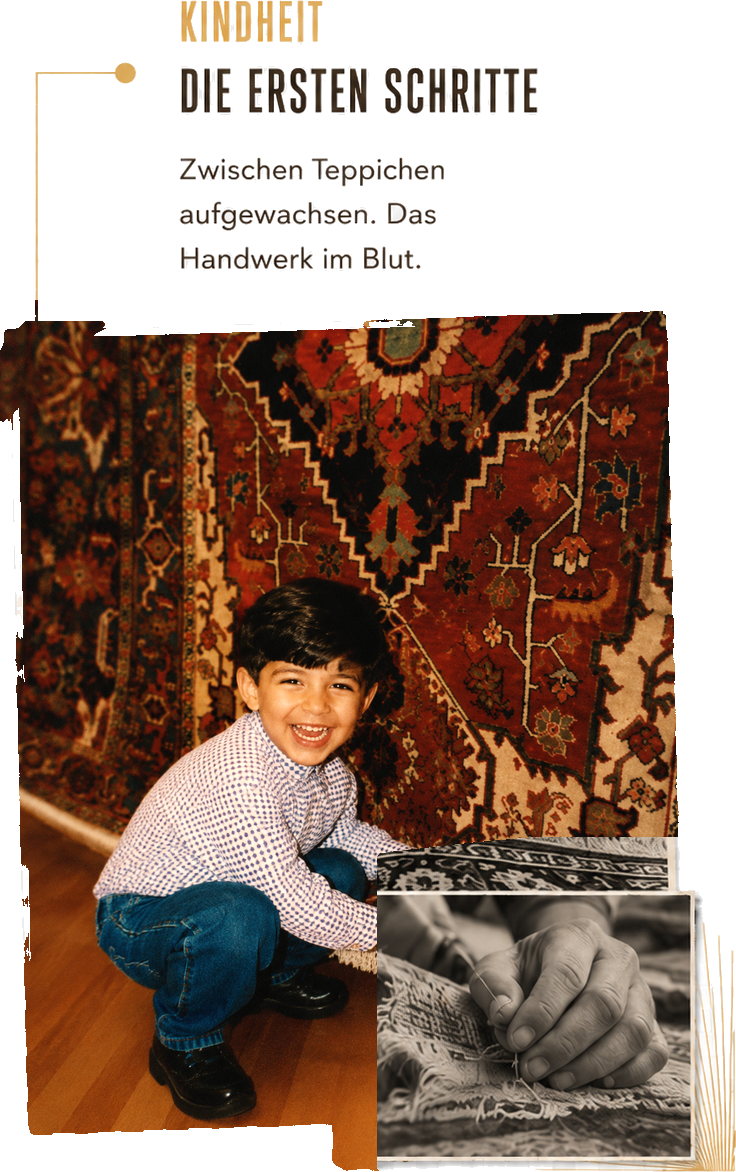
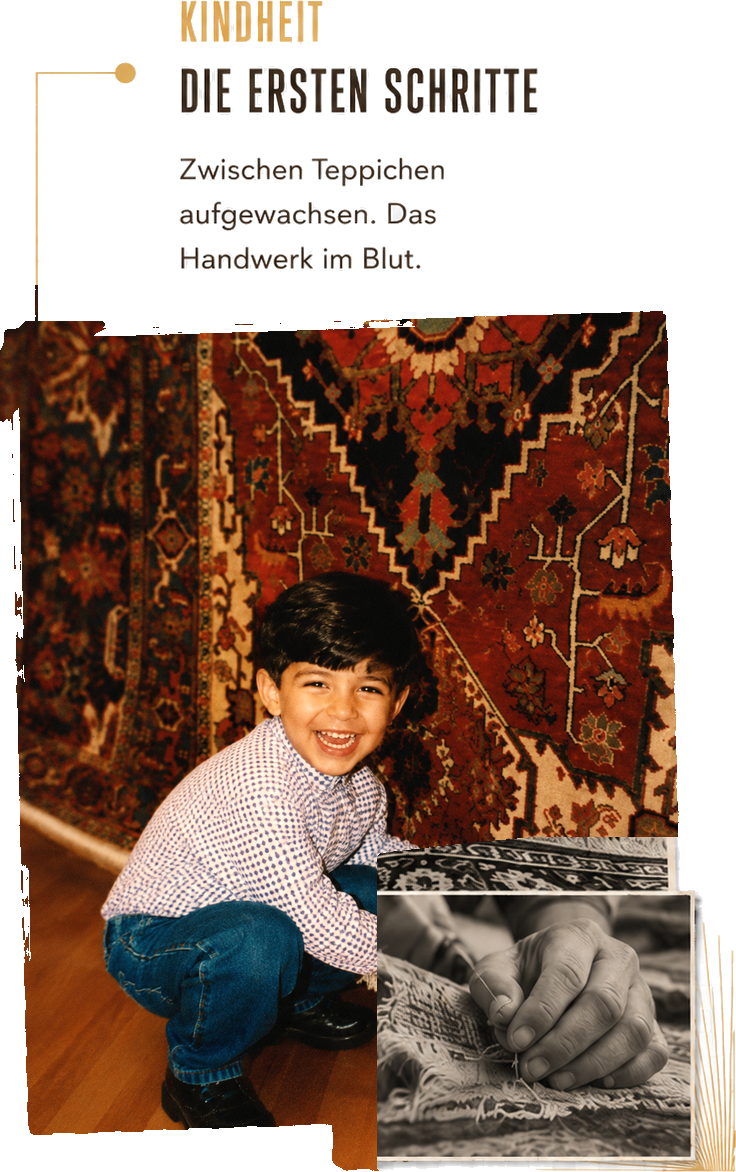
Atelier: Grossvater Klebeband-Ecken wiederhergestellt; Kind mit weicher Alpha-Kante des Platzhalters (Riss-Raender sauber); v6

diff --git a/index.html b/index.html
@@ -389,9 +389,9 @@
   </div>
   <div class="ch-scroller">
     <div class="ch-stage">
-      <img class="ch-el ch-grand" src="assets/img/heritage/grand.png?v=5" alt="1972 – Der Grossvater: der Anfang einer Handwerksgeschichte" loading="lazy" decoding="async">
+      <img class="ch-el ch-grand" src="assets/img/heritage/grand.png?v=6" alt="1972 – Der Grossvater: der Anfang einer Handwerksgeschichte" loading="lazy" decoding="async">
       <img class="ch-el ch-handwerk" src="assets/img/heritage/handwerk.png" alt="Handwerk seit Generationen – das Atelier Soltani" loading="lazy" decoding="async">
-      <img class="ch-el ch-kind" src="assets/img/heritage/kind.png?v=5" alt="Kindheit – die ersten Schritte: zwischen Teppichen aufgewachsen" loading="lazy" decoding="async">
+      <img class="ch-el ch-kind" src="assets/img/heritage/kind.png?v=6" alt="Kindheit – die ersten Schritte: zwischen Teppichen aufgewachsen" loading="lazy" decoding="async">
       <img class="ch-el ch-fabio" src="assets/img/heritage/fabio.png?v=3" alt="Fabio Soltani in seinem Atelier" loading="lazy" decoding="async">
       <div class="ch-el ch-today">
         <span class="ch-today-eb">Heute</span>
